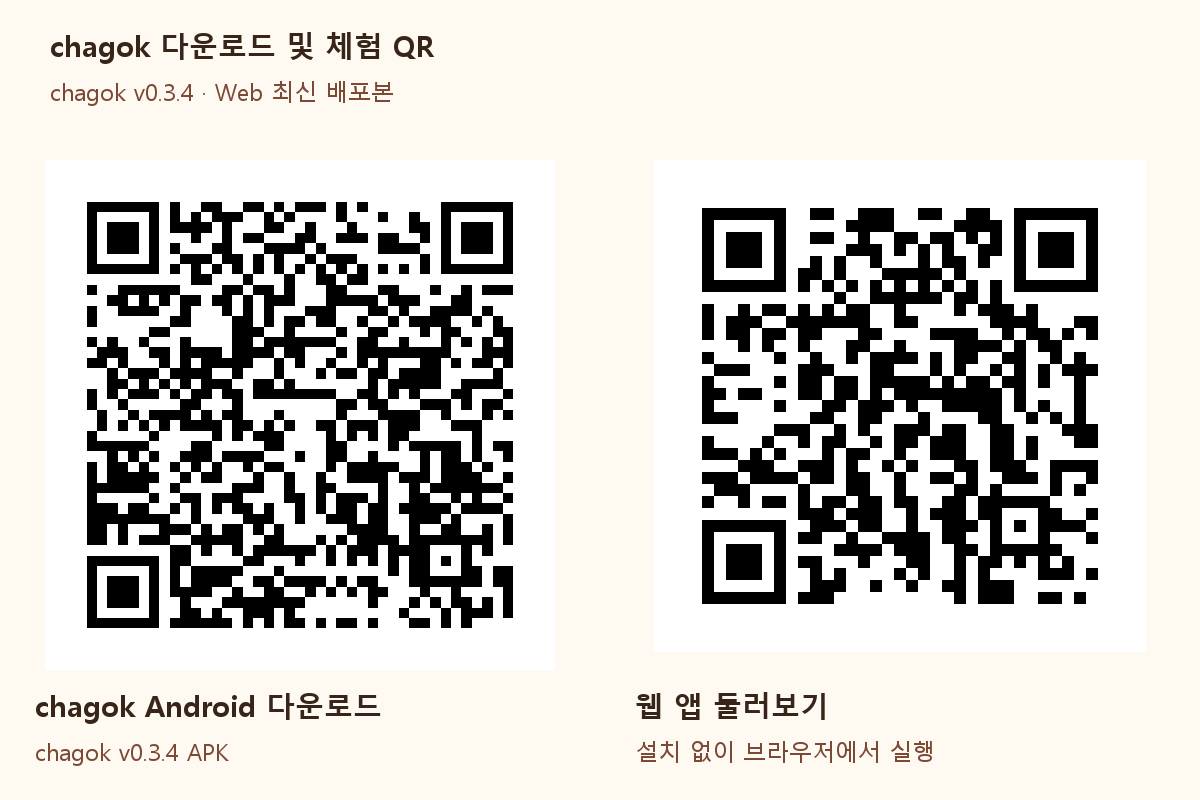
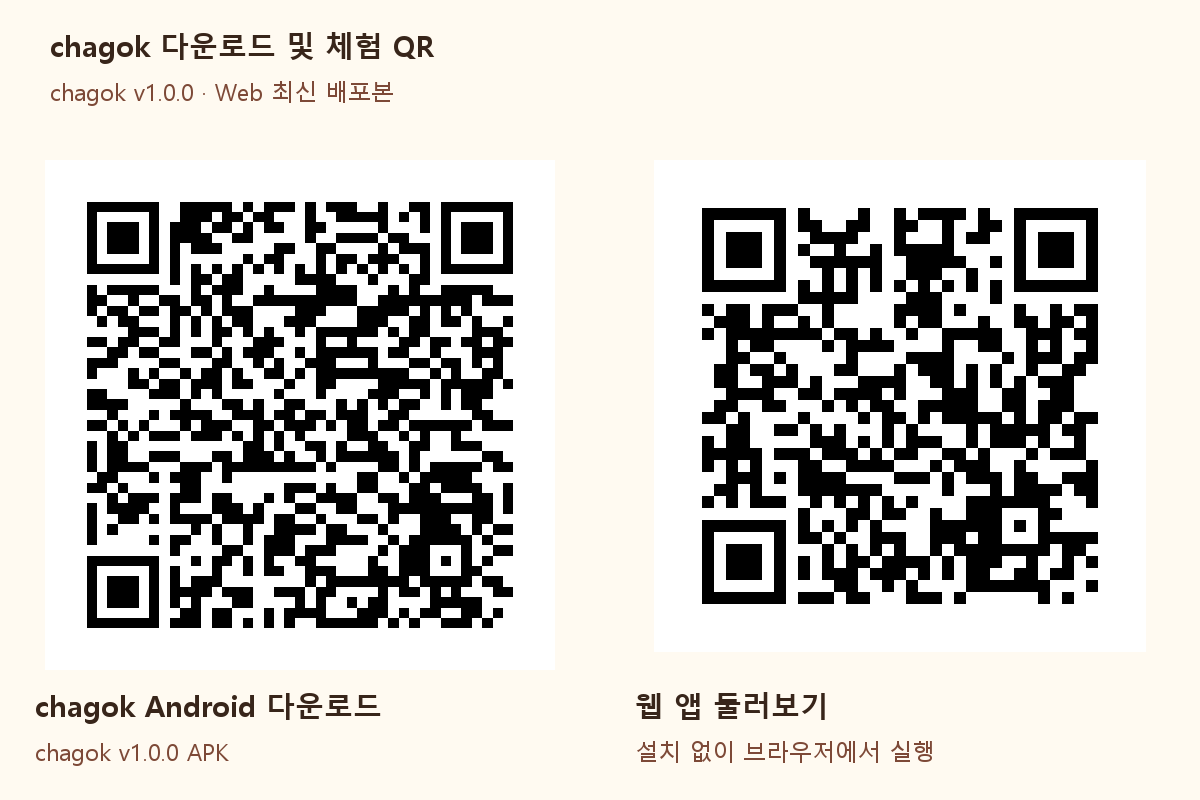
Update chagok QR codes for v1.0.0

diff --git a/tmp/create_delivery_qr.py b/tmp/create_delivery_qr.py
@@ -8,7 +8,7 @@ out = Path(__file__).resolve().parents[1] / 'delivery-qr'
 out.mkdir(exist_ok=True)
 items = [
     ('android-download', 'chagok Android 다운로드', 'chagok v1.0.0 APK', 'https://github.com/songchaewonn/cookietime-android-mvp/releases/download/v1.0.0/chagok-v1.0.0.apk'),
-    ('web-preview', '웹 앱 둘러보기', '설치 없이 브라우저에서 실행', 'https://songchaewonn.github.io/cookietime-mvp/?rev=33dbe67'),
+    ('web-preview', '웹 앱 둘러보기', '설치 없이 브라우저에서 실행', 'https://songchaewonn.github.io/cookietime-mvp/?rev=6007935'),
 ]
 svg_factory = __import__('qrcode.image.svg', fromlist=['SvgPathImage']).SvgPathImage
 font = ImageFont.truetype('C:/Windows/Fonts/malgun.ttf', 23)
@@ -30,6 +30,6 @@ for i, (name, title, subtitle, url) in enumerate(items):
     d.text((i * 600 + 35, 685), title, font=bold, fill='#38251a')
     d.text((i * 600 + 35, 735), subtitle, font=font, fill='#7d4937')
 sheet.save(out / 'chagok-qr-guide.png')
-report = '# chagok QR\n\n- chagok Android v1.0.0 APK (GitHub Release asset verified)\n- Web app (revision 33dbe67)\n\n' + ''.join(f'- {title}: {url}\n' for _, title, _, url in items)
+report = '# chagok QR\n\n- chagok Android v1.0.0 APK (GitHub Release asset verified)\n- Web app (revision 6007935)\n\n' + ''.join(f'- {title}: {url}\n' for _, title, _, url in items)
 (out / 'verification.md').write_text(report, encoding='utf-8')
 print(out)

diff --git a/delivery-qr/verification.md b/delivery-qr/verification.md
@@ -1,7 +1,7 @@
 # chagok QR
 
-- chagok Android v0.3.4 APK (GitHub Release asset verified)
-- Web app (revision 33dbe67)
+- chagok Android v1.0.0 APK (GitHub Release asset verified)
+- Web app (revision 6007935)
 
-- chagok Android 다운로드: https://github.com/songchaewonn/cookietime-android-mvp/releases/download/v0.3.4/CookieTime-v0.3.4.apk
-- 웹 앱 둘러보기: https://songchaewonn.github.io/cookietime-mvp/?rev=33dbe67
+- chagok Android 다운로드: https://github.com/songchaewonn/cookietime-android-mvp/releases/download/v1.0.0/chagok-v1.0.0.apk
+- 웹 앱 둘러보기: https://songchaewonn.github.io/cookietime-mvp/?rev=6007935
